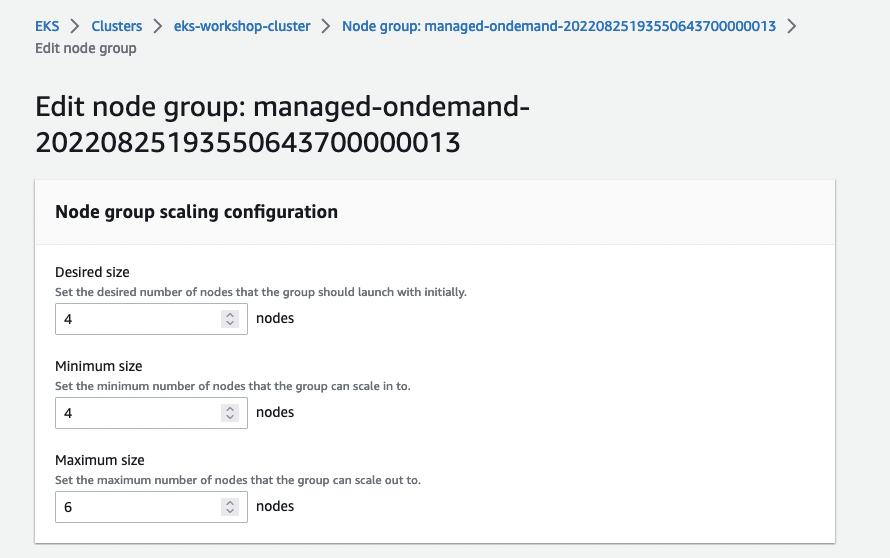
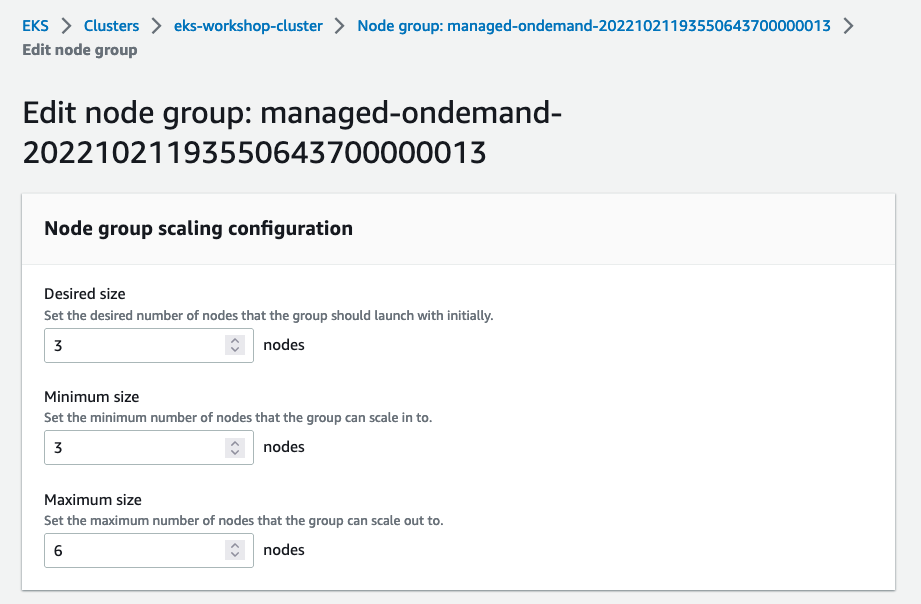
fixed the image and made some styling changes for consistent look.

diff --git a/website/docs/fundamentals/managed-node-groups/adding-nodes.md b/website/docs/fundamentals/managed-node-groups/adding-nodes.md
@@ -8,15 +8,20 @@ While working with your cluster, you may need to update your managed node group 
 
 Next, click the `eks-workshop-cluster`, select the **Compute** tab, and select the node group to edit and choose **Edit**.
 
-On the Edit node group page, you can see the following settings under **Node group scaling configuration**: **Desired size**, **Minimum size** and **Maximum size**. Bump the **minimum size** *and* **desired size** from `2` to `2`. Scroll down and hit **Save changes**.
+On the **Edit node group** page, you can see the following settings under **Node group scaling configuration**: **Desired size**, **Minimum size** and **Maximum size**. Bump the **minimum size** *and* **desired size** from `2` to `3`. Scroll down and hit **Save changes**.
 
-**Alternatively**, You can also change nodegroup configuration using `eksctl` command. To change your nodegroup configuration using `eksctl`, first let's retrieve the current nodegroup scaling configuration and look at `MIN SIZE`, `MAX SIZE` and `DESIRED CAPACITY` of nodes using eksctl command below:
+
+![Added nodes in UI](./assets/added-nodes.png)
+
+
+**Alternatively**, You can also change nodegroup configuration using `eksctl` command. To change your nodegroup configuration using `eksctl` command, first let's retrieve the current nodegroup scaling configuration and look at `MIN SIZE`, `MAX SIZE` and `DESIRED CAPACITY` of nodes using eksctl command below:
 
 ```bash
 $ eksctl get nodegroup --name $EKS_DEFAULT_MNG_NAME --cluster $EKS_CLUSTER_NAME
 ```
 
-We will scale the nodegroup in `eks-workshop-cluster` by incrementing the current node count by **1** for `MIN SIZE` and `DESIRED CAPACITY`.
+We will scale the nodegroup in `eks-workshop-cluster` by changing the node count from `2` to `3` for `MIN SIZE` and `DESIRED CAPACITY` using below command:
+>Note: You do not need to run below command, if you have changed the size of nodegroup using `Amazon EKS Console`.
 
 ```bash
 $ eksctl scale nodegroup --name $EKS_DEFAULT_MNG_NAME --cluster $EKS_CLUSTER_NAME --nodes 3 --nodes-min 3 --nodes-max 6
